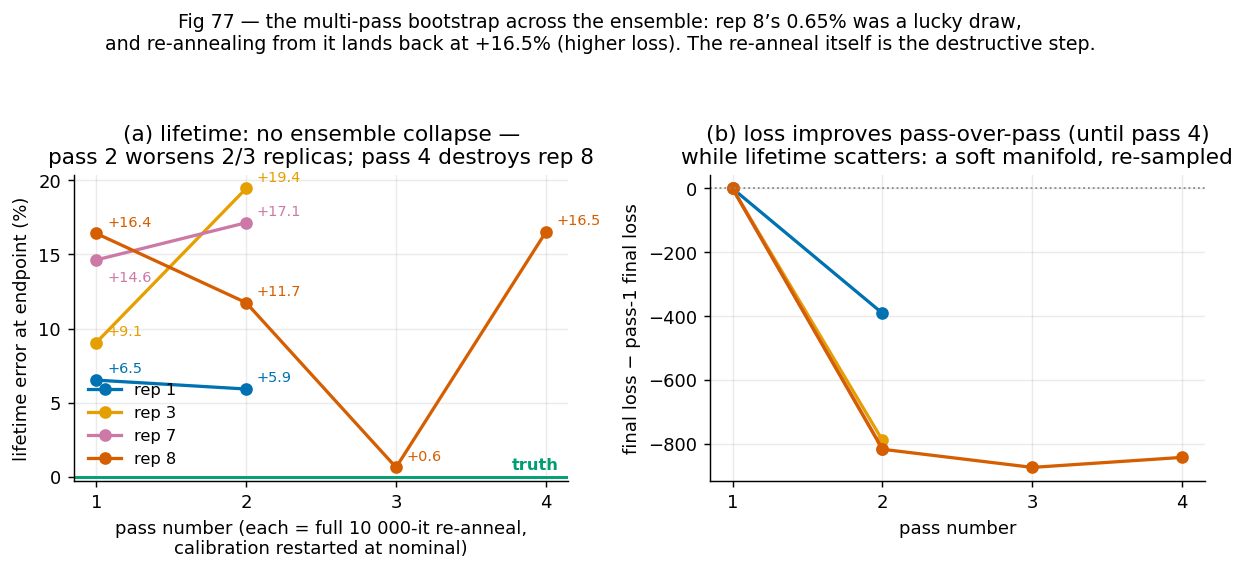
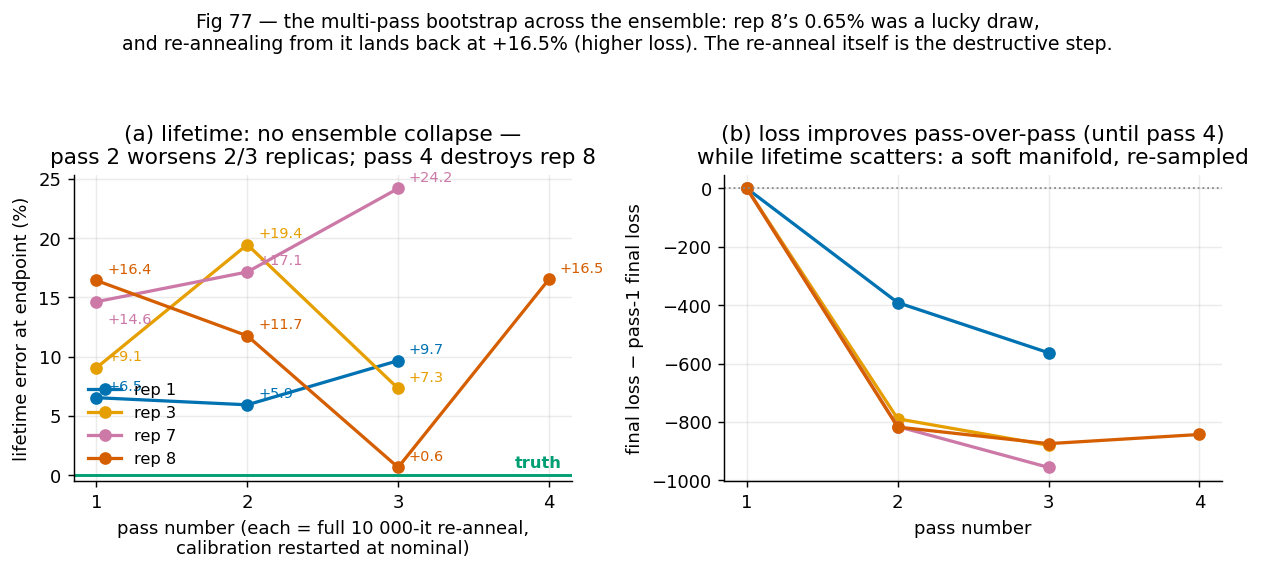
analysis(multipass): pass-3 wave completes the falsification (fig 77 updated)
Ensemble mean 11.7 -> 13.6 -> 13.7% across passes; rep 7 posts its worst
value (+24.2%) at pass 3. First RLX endpoint (RLXR7): gentle relaxation
lands +13.5% from a +14.6% start -- non-destructive but no recovery.

Claude-Session: https://claude.ai/code/session_01AMc19Km3iX9DSrSGRf7Zz2

diff --git a/NOISE_CAMPAIGN_REPORT.md b/NOISE_CAMPAIGN_REPORT.md
@@ -3380,10 +3380,17 @@ The overnight confirmation wave (pass 2 on replicas 1/3/7; pass 4 on replica 8) 
 
 | replica | pass 1 | pass 2 | pass 3 | pass 4 |
 |---|---|---|---|---|
-| rep 1 | +6.5% | +5.9% | *(running)* | |
-| rep 3 | +9.1% | **+19.4%** | *(running)* | |
-| rep 7 | +14.6% | **+17.1%** | *(running)* | |
+| rep 1 | +6.5% | +5.9% | +9.7% | |
+| rep 3 | +9.1% | **+19.4%** | +7.3% | |
+| rep 7 | +14.6% | **+17.1%** | **+24.2%** | |
 | rep 8 | +16.4% | +11.8% | +0.65% | **+16.5%** |
+| **ensemble mean** | **+11.7%** | **+13.6%** | **+13.7%** *(reps 1/3/7)* | |
+
+*(Pass-3 endpoints landed 14 Sep night and complete the falsification: rep 1 goes back UP past its
+pass-1 value, rep 7 posts the worst number of its entire ladder at +24.2%, and the ensemble mean is
+flat-to-worse across passes — 11.7 → 13.6 → 13.7%. Every pass is an independent draw from the same
+wide, upward-biased landing distribution. All three settled: lifetime ptp < 0.3% over the last
+2 000 iterations.)*
 
 Three facts, each decisive on its own:
 

diff --git a/NOISE_CAMPAIGN_DIGEST.md b/NOISE_CAMPAIGN_DIGEST.md
@@ -1244,6 +1244,9 @@ ensemble collapses like rep 8, fig 73's +8.6% intrinsic bias is SOLVED by iterat
 **Tests** — the bootstrap on 3 more replicas, and a 4th pass on rep 8 from its +0.65% point.
 **Concludes — NO ensemble collapse: pass 2 WORSENS 2/3 replicas** (rep 3 +9.1 → +19.4, rep 7
 +14.6 → +17.1, rep 1 +6.5 → +5.9) — the rep-8 ladder is not a property of the procedure.
+**Concludes — pass 3 completes the falsification: ensemble mean 11.7 → 13.6 → 13.7%** (rep 1
++9.7, rep 3 +7.3, rep 7 +24.2 — its worst ladder value). Every pass = an independent draw from
+the same wide, UPWARD-biased landing distribution.
 **Concludes — the fixed point is not fixed: pass 4 lands at +16.5%** at a *worse* final loss than
 pass 3 (8 324 vs 8 293). A full re-anneal re-runs the hot-phase overshoot and re-draws the landing
 point from a ±8%-wide distribution; rep 8's 0.65% was the lucky tail — the same trap as the lucky
